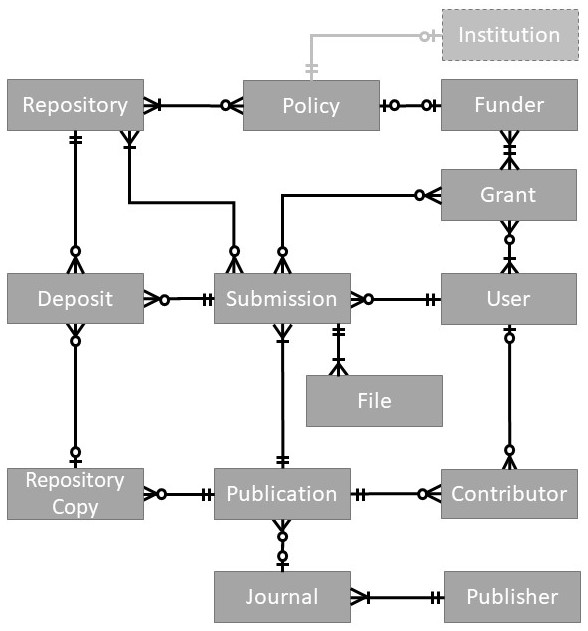
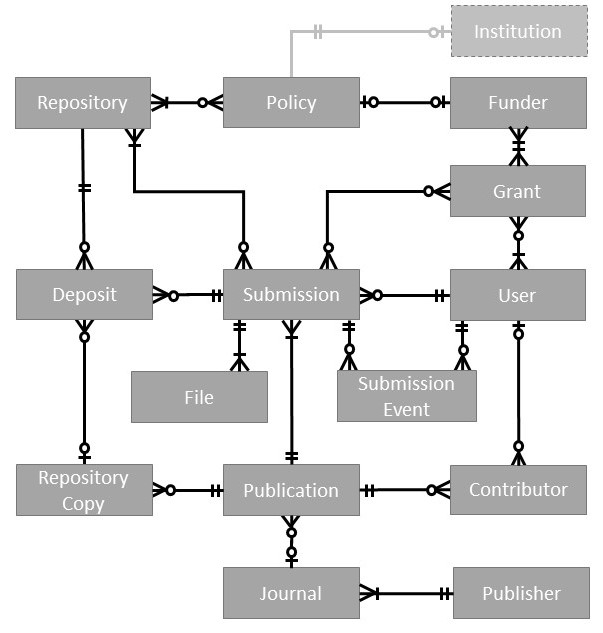
Model changes for new preparer role, submission status changes

Changed region(s): [[0.0, 0.0, 1.0, 0.9937]]

diff --git a/documentation/Submission.md b/documentation/Submission.md
@@ -1,5 +1,5 @@
 # Submission
-In order to comply with access [funder](Funder.md) and institutional access [policies](Policy.md), [Users](User.md) may be required to submit their [Publications](Publication.md) to one or more [Repositories](Repository.md). A Submission is associated with a single User and a single Publication. It encapsulates a User satisfying one or more Policies relevant to their Publication by either (1) [Deposits](Deposit.md) initiated in PASS or (2) [Copies](RepositoryCopy.md) of the publication that already exist in the target repositories. The User can start a Submission by describing their Publication and attaching relevant [Grants](Grant.md) to it. The PASS system will use this information to determine which policies apply, and will help the User send the Publication out to the Repositories that will fulfill them.   
+In order to comply with [funder](Funder.md) and institutional access [policies](Policy.md), [Users](User.md) may be required to submit their [Publications](Publication.md) to one or more [Repositories](Repository.md). A Submission is associated with one `submitter` and one Publication. It encapsulates a User satisfying one or more Policies relevant to their Publication by either (1) [Deposits](Deposit.md) initiated in PASS or (2) [Copies](RepositoryCopy.md) of the publication that already exist in the target repositories. The User can start a Submission by describing their Publication and attaching relevant [Grants](Grant.md) to it. The PASS system will use this information to determine which policies apply, and will help the User send the Publication out to the Repositories that will fulfill them.   
 
 Note that the source of a Submission record is not always a PASS User. In some instance, Submissions are created as a result of an import process designed to ensure that the User can see data relevant to their compliance with Policies in a uniform way.
 
@@ -10,27 +10,34 @@ Note that the source of a Submission record is not always a PASS User. In some i
 | source* | Enum ([_see list below_](#source-options)) | Indicates whether the record came from outside of PASS as an import, or was created through the system |
 | submitted* | boolean | When true, this value signals that the Submission will no longer be edited by the User. It indicates to Deposit services that it can generate Deposits for any Repositories that need one. This becomes "true" when the User clicks "submit" in the UI. For Submissions generated by loader processes this value will be false when the User must complete the Submission, or true if it is merely pointing to an existing copy of the Publication in a Repository. |
 | submittedDate | DateTime | Date the record was submitted by the [User](User.md) through PASS |
-| aggregatedDepositStatus | Enum ([_see list below_](#aggregated-deposit-status-options)) | Status of submission derived from Deposit statuses. If there are no Deposit records, the value will be null |
+| submissionStatus* | Enum ([_see list below_](#submission-status-options)) | The current status of the Submission, derived from the [Deposit](Deposit.md) status(es), [RepositoryCopy](RepositoryCopy.md) status(es) and the `eventType` of the most recent [SubmissionEvent](SubmissionEvent.md) |
 | publication* | URI | URI of Publication represented in this Submission |
-| repositories* | List[URI] | A list of URIs for the Repositories that the this Publication will exist in when the Submission is completed |
-| user*  | URI | URI of the User responsible for managing the Submission. The User will be the individual who either created this Submission through PASS, thus claiming responsibility, or who has been assigned based on their being PI of an associated Grant |
+| repositories* | List[URI] | A list of URIs for the Repositories that this Publication will exist in when the Submission is completed |
+| submitter*  | URI | URI of the User responsible for submitting the Submission. The User will be the individual who either (a) created this Submission through PASS, thus claiming responsibility; (b) was designated as `submitter` by a `preparer`; or, (c) has been assigned the role based on their being PI of an associated Grant. Note that if a preparer designates a `submitter` that does not yet have a [User](User.md) record in the system, this field will store their name and email address in URI format e.g. `mailto:John%20Doe<johndoe@example.org>` |
+| preparers | List[URI] | A list of URIs for the User(s) who prepared, or who could contribute to the preparation of, the Submission. Preparers can edit the content of the Submission (describe the [Publication](Publication.md), add [Grants](Grant.md), select [Repositories](Repository.md)) but cannot approve Repository agreements, or submit the publication - these tasks must be performed by the `submitter`. |
 | grants | List[URI] | List of URIs [Grants](Grant.md) that are associated with the User and are relevant to the Publication being submitted | 
 
 *required 
 
 *Properties automatically generated by the system are documented in [System Properties](SystemProperties.md). These are not available to client tools by default.*
 
-## Aggregated Deposit status options
+## Submission status options
 
-These are the possible statuses for a Submission's aggregatedDepositStatus field. They are listed in the order they would occur. Note that not all Submissions will go through every status. 
+Below are the possible values for the `Submission.submissionStatus` field. They are listed in the order they would typically occur, with an indication of the arrangement of the data that will result in this status, and a label for whether it is a "terminal" status (i.e. there will be no further changes to the `submissionStatus`) or "intermediate" status. Note that not all Submissions will go through every status. 
 
-| Value  					| Description |
-| -------------------------- | ------------- |
-| not-started | No [Deposits](Deposit.md) have been initiated for the Submission |
-| in-progress | One or more [Deposits](Deposit.md) for the Submission have been initiated, and at least one has not reached a status of "accepted" or "rejected" |
-| accepted | All related [Deposits](Deposit.md) for the Submission have a status of "accepted" |
-| rejected | One or more [Deposits](Deposit.md) for the Submission has a status of "rejected" and none have the status of "failed" |
-| failed | One or more [Deposits](Deposit.md) for the Submission has a status of "failed" |
+| Value  					| Description | Data determining status | Terminal or intermediate|
+| ------------------------ | ------------- |----------------------|----------------------|
+| manuscript-required | When the PASS system identifies a need for a User to submit a Publication to a particular Repository, it will create a new Submission record with this status in order to prompt the User to provide the document and complete the Submission. For example, PASS imports information from the NIH Public Access Compliance system, which contains information about out of compliance publications - these will appear in the PASS system for PI of the corresponding Grant with the label `manuscript-required`. | New Submissions of this type are created with this status already set | intermediate |
+| approval-requested | A Submission was prepared by a `preparer` but now needs the `submitter` to approve and submit it or provide feedback. | `Submission.submitted=false` and the most recent SubmissionEvent has `eventType=approval-requested`. | intermediate |
+| changes-requested | A Submission was prepared by a `preparer`, but on review by the `submitter`, a change was requested. The Submission has been handed back to the `preparer` for editing. | `Submission.submitted=false` and the most recent SubmissionEvent has `eventType=changes-requested`. | intermediate |
+| cancelled | A Submission was prepared and then cancelled by the `submitter` or `preparer` without being submitted. No further edits can be made to the Submission. | `Submission.submitted=false` and the most recent SubmissionEvent has `eventType=cancelled`. | terminal |
+| submitted | The submit button has been pressed through the UI, but the Deposits have not yet been processed by the Deposit service. From this status forward, the Submission becomes read-only to both the `submitter` and `preparers`. | `Submission.submitted=true`, the most recent SubmissionEvent has `eventType=submitted` and there are not yet any Deposit records. | intermediate |
+| in-progress | The Submission is being processed by the Deposit services. | One or more [Deposits](Deposit.md) records for the Submission exist, and at least one has not reached a status of "accepted" or "rejected" | intermediate |
+| failed | The material has not yet been transferred to all repositories - a retry is likely pending. | One or more [Deposits](Deposit.md) for the Submission has a status of `failed`.  | intermediate |
+| accepted | Material was successfully transferred to each Repository without error, but PASS has not yet recieved feedback on the status of every copy in the target Repositories. | All related [Deposits](Deposit.md) for the Submission have `depositStatus=accepted`. There are either no associated RepositoryCopies or there is a RepositoryCopy but it has `repoCopyStatus` of `accepted` or `in-progress`. | intermediate |
+| mixed-status | There are multiple Deposits and RepositoryCopies, but these are at different stages making a single combined status impossible to calculate. In the UI, this status will invite the user to "See Details"| Data will vary, for example: a Submission with 2 Deposits - one with an associated RepositoryCopy whose `repoCopyStatus=complete` and another with no RepositoryCopy and `depositStatus=accepted`.
+| complete | The target repositories have all received a copy of the Submission, and have indicated that the Submission was successful. | There is a RepositoryCopy with `repoCopyStatus=complete` for each of the target repositories. | terminal |
+| rejected | The target repositories have all received a copy of the Submission, but upon inspection all of them rejected it. | All [Deposits](Deposit.md) for the Submission have `submissionStatus=rejected`. If only one of two are rejected, this would be set to `mixed-status`. | terminal |
 
 ## Source options
 

diff --git a/documentation/SubmissionEvent.md b/documentation/SubmissionEvent.md
@@ -1,0 +1,37 @@
+# SubmissionEvent
+The SubmissionEvent model captures significant events that are performed by an agent and occur against a [Submission](Submission.md). In the current implementation, the agent will be a PASS [User](User.md). The definition of "significant" will evolve depending on which events are useful to capture in order to e.g. trigger notifications, or form an audit trail. The events that are currently deemed significant for capture are documented under [`eventType`](#event-type-options).
+
+| Field  		| Type  		| Description |
+| ------------- | ------------- | ------------- |
+| __id*__ | URI | Unique SubmissionEvent URI (autogenerated) |
+| eventType* | Enum ([_see list below_](#event-type-options)) | The type of event. |
+| performedDate* | DateTime | Date the event was performed by the [User](User.md) |
+| performedBy* | URI | URI of the [User](User.md) responsible for performing the event |
+| performerRole | Enum ([_see list below_](#performer-role-options)) | Role of the person performing the event. |
+| submission*  | URI | URI of the [Submission](Submission.md) that the event relates to |
+| comment | String | A comment associated with the event. This can be added by the User through the UI to communicate with the User that must repond to the event. |
+
+*required 
+
+*Properties automatically generated by the system are documented in [System Properties](SystemProperties.md). These are not available to client tools by default.*
+
+## Event type options
+
+The following describes the types of events that might be recorded as SubmissionEvents.
+
+| Value  					| Description | 
+| ------------------------ | ------------- |
+| approval-requested-newuser | A Submission was prepared by a `preparer` on behalf of a person who does not yet have a [User](User.md) record in PASS. The `preparer` is requesting that the `submitter` join PASS and then approve and submit it or provide feedback. |
+| approval-requested | A Submission was prepared by a `preparer` who is now requesting that the `submitter` approve and submit it or provide feedback. |
+| changes-requested | A Submission was prepared by a `preparer`, but on review by the `submitter`, a change was requested. The Submission has been handed back to the `preparer` for editing. |
+| cancelled | A Submission was prepared and then cancelled by the `submitter` or `preparer` without being submitted. No further edits can be made to the Submission. |
+| submitted | The submit button has been pressed through the UI. | 
+
+## Performer role options
+
+The following describe the roles of people who might perform a SubmissionEvent.
+
+| Value  					| Description | 
+| ------------------------ | ------------- |
+| preparer | An individual who can prepare a Submission on behalf of another User - select the Publication, Repositories, Files, and Grants - but cannot approve the Repository agreements or submit the record for Deposit. |
+| submitter | An individual responsible for a Submission. A person with this role can do all of the tasks that a `preparer` can do, but also approve any Repository agreements and submit the record for Deposit. |

diff --git a/documentation/Repository.md b/documentation/Repository.md
@@ -8,6 +8,7 @@ A Repository is the target of a [Deposit](Deposit.md). It is a platform where [c
 | name* | String | Name of repository e.g. "PubMed Central" |
 | description | String | Several sentence description of repository |
 | url | URI | URL to the homepage of the repository so that PASS users can view the platform before deciding whether to participate in it |
+| agreementText | String | The legal text that a `submitter` must agree to in order to submit a publication to this Repository |
 | formSchema | String | Stringified JSON representing a form template to be loaded by the front-end when this Repository is selected |
 | integrationType | Enum ([_see list below_](#integration-type-options)) | Type of integration that PASS has with the Repository |
 |repositoryKey | String | Key that is unique to this Repository instance within PASS.  Used to look up the Repository when its URI is not available (e.g. prior to the creation of this Repository resource in Fedora). |

diff --git a/README.md b/README.md
@@ -24,6 +24,7 @@ The data model consists of the following components. Each is documented in full 
 * [Repository](documentation/Repository.md)
 * [RepositoryCopy](documentation/RepositoryCopy.md)
 * [Submission](documentation/Submission.md)
+* [SubmissionEvent](documentation/SubmissionEvent.md)
 * [User](documentation/User.md)
 
 The system also automatically creates additional properties for each entity. These are documented in [System Properties](SystemProperties.md).
